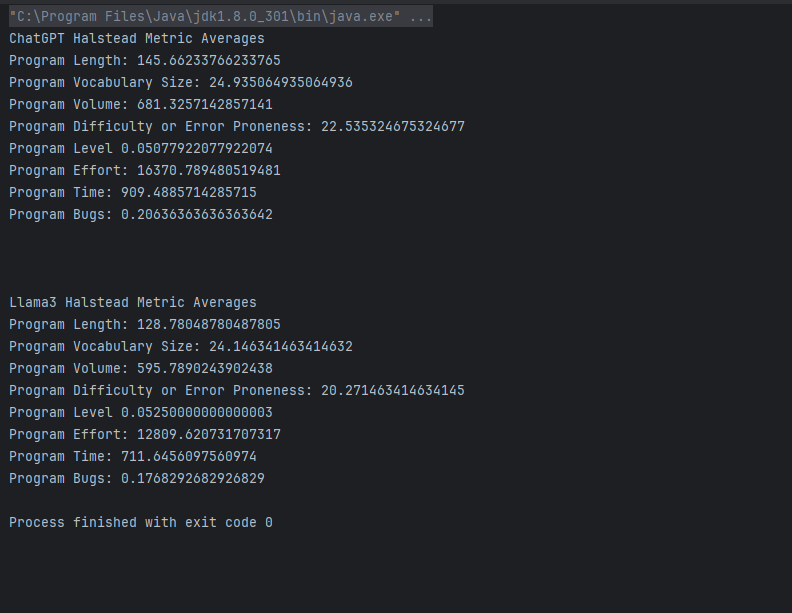
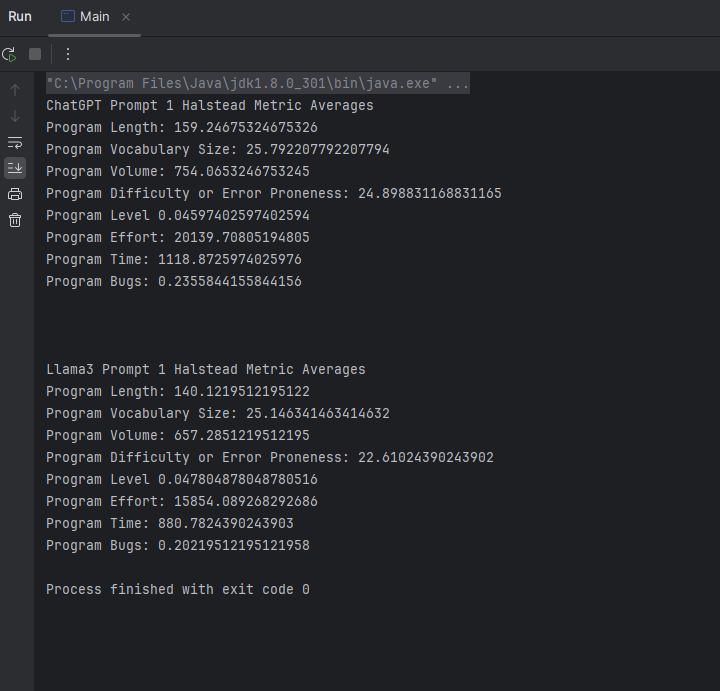
Finished Halstead Metric Averages calculations for Prompt 1 and Prompt 2

Changed region(s): [[0.0, 0.0, 0.7028, 0.4339], [0.0, 0.4649, 0.7028, 0.8059], [0.0, 0.8369, 0.4278, 0.8679]]

diff --git a/HalsteadMetricsAverage/src/Main.java b/HalsteadMetricsAverage/src/Main.java
@@ -3,48 +3,94 @@
 public class Main {
     public static void main(String[] args)
     {
-        double [] ChatGPTprogramLength = {101.00, 96.00, 190.00, 201.00, 112.00, 62.00, 59.00, 64.00, 70.00, 67.00, 68.00, 67.00, 163.00, 162.00, 128.00, 162.00, 160.00, 184.00, 163.00, 165.00, 127.00, 132.00, 173.00, 145.00, 182.00, 160.00, 158.00, 141.00, 167.00, 183.00, 148.00, 118.00, 137.00, 140.00, 170.00, 170.00, 216.00, 260.00, 190.00, 180.00, 137.00, 160.00, 217.00, 233.00, 183.00, 254.00, 224.00, 234.00, 202.00, 197.00, 154.00, 132.00, 103.00, 102.00, 122.00, 182.00, 180.00, 191.00, 126.00, 220.00, 156.00, 172.00, 187.00, 128.00, 171.00, 145.00,  81.00, 82.00, 80.00, 89.00, 88.00, 89.00, 81.00, 84.00, 112.00, 91.00, 86.00};
-        double [] ChatGPTprogramVocabularySize = {18.00, 16.00, 21.00, 18.00, 14.00, 18.00, 18.00, 18.00, 17.00, 18.00, 21.00, 23.00, 31.00, 27.00, 29.00, 27.00, 27.00, 27.00, 25.00, 29.00, 27.00, 32.00, 25.00, 26.00, 28.00, 27.00, 27.00, 28.00, 28.00, 39.00, 27.00, 27.00, 25.00, 30.00, 31.00, 31.00, 33.00, 40.00, 30.00,  26.00, 30.00, 29.00, 24.00, 32.00, 24.00, 29.00, 27.00, 28.00, 23.00, 27.00, 25.00, 20.00, 23.00, 21.00, 26.00, 23.00, 34.00, 32.00, 23.00, 31.00, 25.00, 25.00, 22.00, 19.00, 25.00, 18.00, 18.00, 20.00, 21.00, 21.00, 21.00, 19.00, 21.00, 24.00, 22.00, 21.00, 18.00};
-        double [] ChatGPTprogramVolume = {421.16, 384.00, 834.54, 838.15, 426.42, 258.54, 246.03, 266.88, 286.12, 279.38, 298.68, 303.08, 807.53, 770.29, 621.82, 770.29, 760.78, 874.90, 756.95, 801.57, 603.87, 660.00, 803.39, 681.56, 874.94, 760.78, 751.27, 677.84, 802.83, 967.23, 703.72, 561.08, 636.21, 686.96, 842.21, 672.24, 846.08, 932.31, 1383.70, 1089.59, 842.21, 777.28, 994.94, 1165.00, 839.05, 1233.93, 1065.09, 1124.92, 913.76, 936.71, 715.15, 570.49, 465.93, 448.02, 573.45, 823.29, 915.74, 955.00, 569.97, 1089.92, 724.44, 798.74, 833.91, 543.73, 794.10, 604.64, 337.76, 354.40, 351.39, 390.92, 386.52, 378.07, 355.78, 385.14, 499.46, 399.70, 358.61};
-        double [] ChatGPTprogramDifficultyOrErrorProneness = {28.40, 27.61, 42.38, 35.64, 23.63, 9.20, 8.40, 7.64, 13.33, 13.20, 9.00, 10.67, 17.57, 21.26, 19.74, 21.26, 20.63, 23.16, 24.00, 26.05, 16.00, 12.67, 21.00, 20.00, 22.80, 21.47, 19.16, 24.17, 19.80, 16.50, 18.95, 11.72, 26.00, 21.00, 24.52, 24.29, 24.00, 22.00,  21.45, 24.89, 18.00,  19.05, 34.25, 28.00, 32.00, 35.81, 31.79, 33.00, 36.27, 27.58, 23.76, 28.67, 14.67, 16.31, 14.00, 32.53, 19.38, 23.00, 20.53, 28.00, 23.76, 26.35, 35.14, 28.36, 27.53, 36.00, 28.29, 21.39, 19.80, 21.45, 20.90, 21.11, 19.25, 16.50, 19.38, 21.45, 16.80};
-        double [] ChatGPTprogramLevel = {0.04, 0.04, 0.02, 0.03, 0.04, 0.11, 0.12, 0.13, 0.07, 0.08, 0.11, 0.09, 0.06, 0.05, 0.05, 0.05, 0.05, 0.04, 0.04, 0.04, 0.06, 0.08, 0.05, 0.05, 0.04, 0.05, 0.05, 0.04, 0.05, 0.06, 0.05, 0.09, 0.04, 0.05, 0.04, 0.04, 0.04, 0.05, 0.05, 0.04, 0.06, 0.05, 0.03, 0.04, 0.03, 0.03, 0.03, 0.03, 0.03, 0.04, 0.04, 0.03, 0.07, 0.06, 0.07, 0.03, 0.05, 0.04, 0.05, 0.04, 0.04, 0.04, 0.03, 0.04, 0.04, 0.03, 0.04, 0.05, 0.05, 0.05, 0.05, 0.05, 0.05, 0.06, 0.05, 0.05, 0.06};
-        double [] ChatGPTprogramEffort = {11961.01, 10602.67, 35363.65, 29868.79, 10074.26, 2378.53, 2066.61, 2037.96, 3814.97, 3687.88, 2688.10, 3232.84, 14184.51, 16378.84, 12272.79, 16378.84, 15696.13, 20260.83, 18166.77, 20882.93, 9661.93, 8360.00, 16871.13, 13631.28, 19948.60,  16336.79, 14426.26, 16541.42, 7306.11, 33858.80, 12100.39, 21057.97, 20002.27, 30441.43, 26150.14, 20453.75, 20654.28, 6578.62, 13333.71, 15959.27, 15896.00, 16381.06, 14392.79, 14805.28, 34076.59, 32620.00, 26849.54, 44186.34, 37122.39, 33139.01, 25833.55, 16995.42, 16354.18, 6833.59, 8028.35, 26784.31, 17751.33, 21965.00, 11703.36, 30517.85, 17216.14, 21049.23, 29306.11, 15422.29, 21861.09, 21767.01, 9553.89, 7580.18, 6957.43, 8385.15, 8078.35, 7981.38, 6848.72, 6354.76, 9681.77, 8573.58, 6024.71};
-        double [] ChatGPTprogramTime = {664.50, 589.04, 1964.65, 1659.38, 559.68, 132.14, 114.81, 113.22, 211.94, 204.88, 149.34, 179.60, 788.03, 909.94, 681.82, 909.94, 872.01, 1125.60, 1009.26, 1160.16, 536.77, 464.44, 937.28, 757.29, 1108.26, 907.60, 799.60, 910.06, 883.11, 886.63, 740.76, 365.48, 801.46, 918.97, 672.24, 1111.24, 1691.19, 1452.79, 1136.32, 1147.46, 1169.89, 822.52, 1893.14, 1812.22, 1491.64, 2454.80, 1881.04, 2062.36, 1841.06, 1435.20, 944.19, 908.57, 379.64, 405.90, 446.02, 1488.02, 986.19, 1220.28, 650.19, 1695.44, 956.45, 1169.40, 1628.12, 856.79, 1214.50, 1209.28, 530.77, 421.12, 386.52, 465.84, 448.80, 443.41, 380.48, 353.04, 537.88, 476.31, 334.71};
-        double [] ChatGPTprogramBugs = {0.17, 0.16, 0.36, 0.32, 0.16, 0.06, 0.05, 0.05, 0.08, 0.08, 0.06, 0.07, 0.20, 0.21, 0.18, 0.21, 0.21, 0.25, 0.23, 0.25, 0.15, 0.14, 0.22, 0.19, 0.25, 0.21, 0.20, 0.22, 0.21, 0.21, 0.19, 0.12, 0.22, 0.20, 0.25, 0.25, 0.29, 0.32, 0.25, 0.25, 0.18, 0.20, 0.35, 0.34, 0.30, 0.42, 0.35, 0.37, 0.34, 0.29, 0.22, 0.21, 0.12, 0.13,  0.13,  0.30, 0.23, 0.26, 0.17, 0.33, 0.22, 0.25, 0.32, 0.21, 0.26, 0.26, 0.15, 0.13, 0.12, 0.14, 0.13, 0.13, 0.12, 0.11, 0.15, 0.14, 0.11};
+        double [] ChatGPT1programLength = {101.00, 96.00, 191.00, 201.00, 112.00, 62.00, 59.00, 64.00, 75.00, 67.00, 68.00, 67.00, 185.00, 184.00, 141.00, 184.00, 175.00, 209.00, 183.00, 184.00, 143.00, 145.00, 190.00, 164.00, 204.00, 182.00, 174.00, 160.00, 197.00, 199.00, 167.00, 136.00, 156.00, 165.00, 195.00, 195.00, 242.00, 297.00,  216.00, 205.00, 159.00, 182.00, 250.00, 250.00, 201.00, 270.00, 242.00, 252.00, 218.00, 213.00, 168.00, 144.00, 115.00, 112.00, 136.00, 198.00, 196.00, 207.00, 140.00, 238.00, 172.00, 190.00, 207.00, 142.00, 187.00, 160.00, 82.00, 83.00, 81.00, 90.00, 89.00, 90.00, 82.00, 85.00, 113.00, 92.00, 86.00   };
+        double [] ChatGPT1programVocabularySize = {18.00, 16.00, 22.00, 18.00, 14.00, 18.00, 18.00, 18.00, 18.00, 18.00, 21.00, 23.00, 32.00, 28.00, 30.00, 28.00, 28.00, 28.00, 26.00, 30.00, 28.00, 33.00, 26.00, 27.00, 29.00, 28.00, 28.00, 29.00, 29.00, 40.00, 28.00, 28.00, 26.00, 31.00, 32.00, 32.00, 34.00, 41.00, 31.00, 27.00, 31.00, 30.00,  25.00, 33.00, 25.00, 30.00, 28.00, 29.00, 24.00, 28.00, 26.00, 21.00, 24.00, 22.00, 27.00, 24.00, 35.00, 33.00, 24.00, 32.00, 26.00, 26.00, 23.00, 20.00, 26.00, 19.00, 19.00, 21.00, 22.00, 22.00, 22.00, 20.00, 22.00, 25.00, 23.00, 22.00, 18.00  };
+        double [] ChatGPT1programVolume = {421.16, 384.00, 851.75, 838.15, 426.42, 258.54, 246.03, 266.88, 312.74, 279.38, 298.68, 303.08, 925.00, 884.55, 691.87, 884.55, 841.29, 1004.74, 860.18, 902.87, 687.45, 731.44, 893.08, 779.80, 991.03, 874.94, 836.48, 777.28, 957.02, 1059.06, 802.83, 653.80, 733.27, 817.44, 975.00, 975.00, 1231.17, 1591.19, 1070.11, 974.75, 787.72, 893.05, 1160.96, 1261.10, 933.42, 1324.86, 1163.38, 1224.21, 999.52, 1023.97, 789.67, 632.49, 527.27, 499.46, 646.66, 907.82, 1005.34, 1044.19, 641.89, 1190.00, 808.48, 893.08, 936.38, 613.71, 878.98, 679.67, 348.33, 364.56, 361.21, 401.35, 396.89, 388.97, 365.67, 394.73, 511.16, 410.27, 358.61   };
+        double [] ChatGPT1programDifficultyOrErrorProneness = {28.40, 27.61, 47.08, 35.64, 23.63, 9.20, 8.40, 7.64, 15.00, 13.20, 9.00, 10.67, 19.76, 23.92, 21.71, 23.92, 23.21, 26.05, 27.00, 28.66, 18.00, 14.25, 24.00, 22.50, 25.65, 24.16, 21.55, 26.58, 22.28, 18.33, 21.32, 13.40, 28.60, 23.10, 26.98, 26.71, 27.00, 24.75, 24.14,  28.00, 20.00,  21.43, 38.53, 31.50, 36.00, 40.29, 35.76, 37.13, 40.80, 31.03, 26.74, 32.25, 16.50, 18.35, 15.75, 36.60, 21.81, 25.88, 23.10, 31.50, 26.74, 29.65, 39.54, 31.91, 30.97, 40.50, 30.86, 23.33, 21.60, 23.40, 22.80, 23.22, 21.00, 18.00, 21.54, 23.40, 16.80  };
+        double [] ChatGPT1programLevel = { 0.04, 0.04, 0.02, 0.03, 0.04, 0.11, 0.12, 0.13, 0.07, 0.08, 0.11, 0.09, 0.05, 0.04, 0.05, 0.04, 0.04, 0.04, 0.04, 0.03, 0.06, 0.07, 0.04, 0.04, 0.04, 0.04, 0.05, 0.04, 0.04, 0.05, 0.05, 0.07, 0.03, 0.04, 0.04, 0.04, 0.04, 0.04, 0.04, 0.04, 0.05, 0.05, 0.03, 0.03, 0.03, 0.02, 0.03, 0.03, 0.02, 0.03, 0.04, 0.03, 0.06,  0.05, 0.06, 0.03, 0.05, 0.04, 0.04, 0.03, 0.04, 0.03, 0.03, 0.03, 0.03, 0.02, 0.03, 0.04, 0.05, 0.04, 0.04, 0.04, 0.05, 0.06, 0.05, 0.04, 0.06  };
+        double [] ChatGPT1programEffort = {11961.01, 10602.67, 40103.30, 29868.79, 10074.26, 2378.53, 2066.61, 2037.96, 4691.17, 3687.88, 2688.10, 3232.84, 18278.80, 21159.45, 15020.90, 21159.45, 19526.72, 26176.05, 23224.87, 25874.29, 12374.13, 10422.98, 21434.01, 17545.53, 25419.87, 21136.67, 18028.34, 20662.61, 21317.67, 19416.17, 17112.92, 8760.92, 20971.48, 18882.92, 26301.79, 26046.43, 33241.48, 39382.03, 25828.48, 27293.05, 15754.34, 19136.87, 44733.40, 39724.60, 33602.94, 53372.95, 41606.14, 45448.84, 40780.49, 31769.91, 21112.16, 20397.92, 8699.97, 9163.10, 10184.97, 33226.31, 21924.13, 27018.41,  14827.77, 37485.00, 21614.83, 26477.30, 37020.35, 19583.05, 27222.60, 27526.57, 10748.47, 8506.45, 7802.22, 9391.56, 9049.08, 9032.83, 7679.14, 7105.10, 11009.65, 9600.26, 6024.71  };
+        double [] ChatGPT1programTime = { 664.50, 589.04, 2227.96, 1659.38, 559.68, 132.14, 114.81, 113.22, 260.62, 204.88, 149.34, 179.60, 1015.49, 1175.52, 834.49, 1175.52, 1084.82, 1454.22, 1290.27, 1437.46, 687.45, 579.05, 1190.78, 974.75, 1412.22, 1174.26, 1001.57, 1147.92, 1184.32, 1078.68, 950.72, 486.72, 1165.08, 1049.05, 1461.21, 1447.02, 1846.75, 2187.89, 1434.92, 1516.28, 875.24, 1063.16, 2485.19, 2206.92, 1866.83, 2965.16, 2311.45, 2524.94, 2265.58, 1765.00, 1172.90, 1133.22, 483.33, 509.06, 565.83, 1845.91, 1218.01, 1501.02, 823.76, 2082.50, 1200.82, 1470.96, 2056.69, 1087.95, 1512.37, 1529.25, 597.14, 472.58, 433.46, 521.75, 502.73, 501.82, 426.62, 394.73, 611.65, 533.35, 334.71  };
+        double [] ChatGPT1programBugs = {0.17, 0.16, 0.39, 0.32, 0.16, 0.06, 0.05, 0.05, 0.09, 0.08, 0.06, 0.07, 0.23, 0.26, 0.20, 0.26, 0.24, 0.29, 0.27, 0.29, 0.18, 0.16, 0.26, 0.23, 0.29, 0.25, 0.23, 0.25, 0.26, 0.24, 0.22, 0.14, 0.25, 0.24, 0.29, 0.29, 0.34, 0.39, 0.29, 0.30, 0.21, 0.24, 0.42, 0.39, 0.35, 0.47, 0.40, 0.42, 0.39, 0.33, 0.25, 0.25, 0.15, 0.14, 0.16, 0.34, 0.26, 0.30, 0.20, 0.37, 0.26, 0.30, 0.37, 0.24, 0.30, 0.30, 0.16, 0.14, 0.13, 0.15, 0.14, 0.14, 0.13, 0.12, 0.16, 0.15, 0.11  };
 
-        System.out.println("ChatGPT Halstead Metric Averages");
-        System.out.println("Program Length: " + halsteadAverage(ChatGPTprogramLength));
-        System.out.println("Program Vocabulary Size: " + halsteadAverage(ChatGPTprogramVocabularySize));
-        System.out.println("Program Volume: " + halsteadAverage(ChatGPTprogramVolume));
-        System.out.println("Program Difficulty or Error Proneness: " + halsteadAverage(ChatGPTprogramDifficultyOrErrorProneness));
-        System.out.println("Program Level " + halsteadAverage(ChatGPTprogramLevel));
-        System.out.println("Program Effort: " + halsteadAverage(ChatGPTprogramEffort));
-        System.out.println("Program Time: " + halsteadAverage(ChatGPTprogramTime));
-        System.out.println("Program Bugs: " + halsteadAverage(ChatGPTprogramBugs));
+        System.out.println("ChatGPT Prompt 1 Halstead Metric Averages");
+        System.out.println("Program Length: " + halsteadAverage(ChatGPT1programLength));
+        System.out.println("Program Vocabulary Size: " + halsteadAverage(ChatGPT1programVocabularySize));
+        System.out.println("Program Volume: " + halsteadAverage(ChatGPT1programVolume));
+        System.out.println("Program Difficulty or Error Proneness: " + halsteadAverage(ChatGPT1programDifficultyOrErrorProneness));
+        System.out.println("Program Level " + halsteadAverage(ChatGPT1programLevel));
+        System.out.println("Program Effort: " + halsteadAverage(ChatGPT1programEffort));
+        System.out.println("Program Time: " + halsteadAverage(ChatGPT1programTime));
+        System.out.println("Program Bugs: " + halsteadAverage(ChatGPT1programBugs));
 
         System.out.println();
         System.out.println();
         System.out.println();
 
-        double [] Llama3programLength = {67.00, 116.00, 116.00, 129.00, 131.00, 122.00, 130.00, 114.00, 147.00, 144.00, 116.00, 122.00, 112.00, 138.00, 115.00, 130.00, 140.00, 135.00, 130.00, 193.00, 196.00, 197.00, 197.00, 120.00, 168.00, 181.00, 226.00, 195.00, 185.00, 159.00, 79.00, 78.00, 78.00, 74.00, 79.00, 99.00, 75.00, 76.00, 79.00, 97.00, 95.00};
-        double [] Llama3programVocabularySize = {17.00, 23.00, 24.00, 26.00, 28.00, 26.00, 28.00, 25.00, 26.00, 24.00, 24.00, 28.00, 23.00, 27.00, 25.00, 28.00, 25.00, 30.00, 24.00, 22.00, 21.00, 20.00, 33.00, 26.00, 24.00, 45.00, 32.00, 29.00, 29.00, 26.00, 18.00, 18.00, 18.00, 18.00, 20.00, 18.00, 18.00, 16.00, 21.00, 18.00, 19.00};
-        double [] Llama3programVolume = {273.86, 524.73, 531.86, 606.36, 629.76, 573.45, 624.96, 529.40, 690.96, 660.23, 531.86, 586.50, 506.64, 656.17, 534.04, 624.96, 650.14, 662.43, 596.05, 860.67, 860.89, 851.42, 993.75, 564.05, 770.27, 994.03, 1130.00, 947.31, 898.73,  747.37, 329.42, 325.25, 325.25, 308.57, 341.43, 304.00, 312.74, 412.82, 346.99, 404.48, 403.55};
-        double [] Llama3programDifficultyOrErrorProneness = {12.89, 17.33, 16.25, 16.67, 21.11, 16.00, 20.83, 21.33, 23.56, 20.75, 16.25, 19.72, 19.61, 20.00, 18.28, 17.76, 27.00, 16.29, 15.24, 28.23, 44.25, 33.92, 23.44, 21.56, 31.20, 10.96, 24.50, 23.05, 23.24, 25.68, 16.50, 16.00, 16.00, 14.50, 19.56, 19.00, 15.50, 18.64, 12.38, 19.50, 16.65};
-        double [] Llama3programLevel = {0.08, 0.06, 0.06, 0.06, 0.05, 0.06, 0.05, 0.05, 0.04, 0.05, 0.06, 0.05, 0.05, 0.05, 0.05, 0.06, 0.04, 0.06, 0.07, 0.04, 0.02, 0.03, 0.04, 0.05, 0.03, 0.09, 0.04, 0.04, 0.04, 0.04, 0.06, 0.06, 0.07, 0.05, 0.05, 0.06, 0.05, 0.08, 0.05, 0.06};
-        double [] Llama3programEffort = {3529.75, 9095.38, 8642.65, 10105.95, 13295.01, 9175.26, 13019.92, 11293.86, 16278.31, 13699.87, 8642.65, 11567.03, 9933.74, 13123.49, 9762.98, 11101.19, 17553.78, 10788.15, 9080.92, 24299.59, 38094.57, 28882.78, 23290.91, 12162.39, 24032.54, 10895.04, 27685.00, 21833.15, 20884.69, 19189.82, 5435.50, 5204.07, 5204.07, 4474.33, 6676.90,  7843.63, 4847.54, 5667.43, 4294.04, 7887.41, 6719.16};
-        double [] Llama3programTime = {196.10, 505.30, 480.15, 561.44, 738.61, 509.74, 723.33, 627.44, 904.35, 761.10, 480.15, 642.61, 551.87, 729.08, 542.39, 616.73, 975.21, 599.34, 504.50, 1349.98, 2116.36, 1604.60, 1293.94, 675.69, 1335.14, 605.28, 1538.06, 1212.95, 1160.26, 1066.10, 301.97, 289.11, 289.11, 248.57, 370.94,  435.76, 269.31, 314.86, 238.56, 438.19, 373.29};
-        double [] Llama3programBugs = {0.08, 0.15, 0.14, 0.16, 0.19, 0.15, 0.18, 0.17, 0.21, 0.19, 0.14, 0.17, 0.15, 0.19, 0.15, 0.17, 0.23, 0.16, 0.15, 0.28, 0.38, 0.31, 0.27, 0.18, 0.28, 0.16, 0.31, 0.26, 0.25, 0.24, 0.10, 0.10, 0.11, 0.09, 0.12, 0.13, 0.10, 0.11, 0.09, 0.13, 0.12};
+        double [] Llama31programLength = { 72.00, 126.00, 126.00, 146.00, 149.00, 139.00, 147.00, 124.00, 167.00, 164.00, 126.00, 139.00, 122.00, 158.00, 125.00, 142.00, 152.00, 147.00, 142.00, 209.00, 226.00, 215.00, 213.00, 128.00, 182.00, 197.00, 257.00, 204.00, 208.00, 173.00, 80.00, 79.00, 79.00, 75.00, 80.00, 100.00, 76.00, 77.00, 80.00, 98.00, 96.00  };
+        double [] Llama31programVocabularySize = {18.00, 24.00, 25.00, 27.00, 29.00, 27.00, 29.00, 26.00, 27.00, 25.00, 25.00, 29.00, 24.00, 28.00, 26.00, 29.00, 26.00, 31.00, 25.00, 23.00, 22.00, 21.00, 34.00, 27.00, 25.00, 46.00, 33.00, 30.00, 30.00, 27.00, 19.00, 19.00, 19.00, 19.00, 21.00, 19.00, 19.00, 17.00, 22.00, 19.00, 20.00 };
+        double [] Llama31programVolume = { 300.23, 577.71, 585.13, 694.21, 723.84, 660.93, 714.12, 582.85, 794.07, 761.59, 585.13, 675.26, 559.37, 759.56, 587.55, 689.83, 714.47, 728.27, 659.43, 945.42, 1007.83, 944.35, 1083.63, 608.63, 845.18, 1088.14, 1296.41, 1001.01, 1020.63,  822.60, 339.83, 335.59, 335.59, 318.59, 351.39, 424.79, 322.84, 314.73, 356.75, 416.30, 414.91 };
+        double [] Llama31programDifficultyOrErrorProneness = {14.50, 19.50, 18.28, 18.75, 23.22, 18.00, 22.92, 23.47, 26.18, 23.34, 18.28, 21.69, 21.79, 22.22, 20.31, 19.74, 29.70, 18.10, 17.41, 32.27, 49.17, 38.77, 26.04, 23.72, 34.67, 12.53, 27.56, 25.93, 26.14, 28.53, 18.33, 17.78,  17.78, 16.11, 21.33, 21.11, 17.22, 20.71, 13.75, 21.67, 18.50  };
+        double [] Llama31programLevel = { 0.07, 0.05, 0.05, 0.05, 0.04, 0.06, 0.04, 0.04, 0.04, 0.04, 0.05, 0.05, 0.05, 0.04, 0.05, 0.05, 0.03, 0.06, 0.06, 0.03, 0.02, 0.03, 0.04, 0.04, 0.03, 0.08, 0.04, 0.04, 0.04, 0.04, 0.05, 0.06, 0.06, 0.06, 0.05, 0.05, 0.06, 0.05, 0.07, 0.05, 0.05  };
+        double [] Llama31programEffort = {4353.40, 11265.25, 10696.83, 13016.50, 16809.15, 11896.73, 16365.32, 13677.65, 20785.85, 17778.42, 10696.83, 14649.38, 12186.18, 16879.16, 11934.71, 13615.13, 21219.67, 13178.16, 11481.80, 30505.70, 49551.72, 36611.66, 28219.52, 14435.84, 29299.64, 13630.41, 35732.28, 25954.65, 26682.27, 23468.17, 6230.29, 5965.98, 5965.98, 5132.91, 7496.22, 8967.85, 5560.07, 6519.50, 4905.37, 9019.77, 7675.74 };
+        double [] Llama31programTime = {241.86, 625.85, 594.27, 723.14, 933.84, 660.93, 909.18, 759.87, 1154.77, 987.69, 594.27, 813.85, 677.01, 937.73, 663.04, 756.40, 1178.87, 732.12, 637.88, 1694.76, 2752.87, 2033.98, 1567.75, 801.99, 1627.76, 757.24, 1985.13, 1441.92, 1482.35, 1303.79, 346.13, 331.44, 331.44, 285.16, 416.46, 498.21, 308.89, 362.19, 272.52, 501.10, 426.43 };
+        double [] Llama31programBugs = {0.09, 0.17, 0.16, 0.18, 0.22, 0.17, 0.21, 0.19, 0.25, 0.23, 0.16, 0.20, 0.18, 0.22, 0.17, 0.19, 0.26, 0.19, 0.17, 0.33, 0.45, 0.37, 0.31, 0.20, 0.32, 0.19, 0.36, 0.29, 0.30, 0.27, 0.11, 0.11, 0.11, 0.10,  0.13, 0.14, 0.10, 0.12, 0.10, 0.14, 0.13 };
 
-        System.out.println("Llama3 Halstead Metric Averages");
-        System.out.println("Program Length: " + halsteadAverage(Llama3programLength));
-        System.out.println("Program Vocabulary Size: " + halsteadAverage(Llama3programVocabularySize));
-        System.out.println("Program Volume: " + halsteadAverage(Llama3programVolume));
-        System.out.println("Program Difficulty or Error Proneness: " + halsteadAverage(Llama3programDifficultyOrErrorProneness));
-        System.out.println("Program Level " + halsteadAverage(Llama3programLevel));
-        System.out.println("Program Effort: " + halsteadAverage(Llama3programEffort));
-        System.out.println("Program Time: " + halsteadAverage(Llama3programTime));
-        System.out.println("Program Bugs: " + halsteadAverage(Llama3programBugs));
+        System.out.println("Llama3 Prompt 1 Halstead Metric Averages");
+        System.out.println("Program Length: " + halsteadAverage(Llama31programLength));
+        System.out.println("Program Vocabulary Size: " + halsteadAverage(Llama31programVocabularySize));
+        System.out.println("Program Volume: " + halsteadAverage(Llama31programVolume));
+        System.out.println("Program Difficulty or Error Proneness: " + halsteadAverage(Llama31programDifficultyOrErrorProneness));
+        System.out.println("Program Level " + halsteadAverage(Llama31programLevel));
+        System.out.println("Program Effort: " + halsteadAverage(Llama31programEffort));
+        System.out.println("Program Time: " + halsteadAverage(Llama31programTime));
+        System.out.println("Program Bugs: " + halsteadAverage(Llama31programBugs));
 
+        System.out.println();
+        System.out.println();
+        System.out.println();
+        System.out.println("Halstead Metrics for Prompt 2");
+    //Now this is where we calculate for Prompt 2
+        double [] ChatGPT2programLength = {102.00, 199.00, 199.00, 97.00, 97.00, 155.00, 76.00, 74.00, 77.00, 58.00, 78.00, 92.00, 163.00, 141.00, 180.00, 157.00, 166.00, 167.00, 176.00, 161.00, 117.00, 173.00, 174.00, 163.00, 194.00, 212.00, 158.00, 175.00, 155.00, 195.00, 172.00, 162.00, 222.00, 227.00, 228.00, 252.00, 208.00, 224.00, 257.00, 258.00, 177.00, 229.00, 214.00, 221.00, 204.00, 181.00, 194.00, 233.00, 182.00, 280.00, 209.00, 218.00, 170.00, 136.00, 123.00, 133.00, 222.00, 197.00, 218.00, 228.00, 181.00, 233.00, 187.00, 192.00, 201.00, 203.00, 97.00, 95.00, 96.00, 94.00, 84.00, 91.00, 120.00, 103.00, 93.00, 75.00, 110.00  };
+        double [] ChatGPT2programVocabularySize = {19.00, 20.00, 19.00, 20.00, 18.00, 22.00, 22.00, 24.00, 23.00, 19.00, 24.00, 28.00, 28.00, 29.00, 30.00, 27.00, 28.00, 26.00, 30.00, 28.00, 27.00, 28.00, 29.00, 29.00, 29.00, 29.00, 28.00, 29.00, 26.00, 28.00, 28.00, 27.00, 31.00, 37.00, 36.00, 40.00, 36.00, 34.00, 33.00, 31.00, 28.00, 35.00, 26.00, 29.00, 31.00, 27.00, 26.00, 26.00, 26.00, 46.00, 24.00, 22.00, 26.00, 23.00, 26.00, 26.00, 26.00, 25.00, 29.00, 25.00, 24.00, 23.00, 25.00, 22.00, 24.00, 23.00, 23.00, 24.00, 26.00, 24.00, 23.00, 25.00, 27.00, 25.00, 27.00, 27.00, 29.00    };
+        double [] ChatGPT2programVolume = {  433.29, 860.06, 845.34, 419.23, 404.48, 691.21, 338.92, 339.29, 348.31, 246.38, 357.63, 442.28, 783.60, 684.98, 883.24, 746.52, 798.02, 784.97, 863.61, 773.98, 556.32, 831.67, 845.29, 791.85, 942.45, 1029.89, 759.56, 850.15, 728.57, 937.43, 826.87, 770.29, 1099.83, 1182.55, 1178.74, 1341.13, 1075.34, 1139.59, 1296.41, 1278.18, 850.90, 1174.61, 1005.89, 1073.61, 1010.66, 860.63, 911.89, 1095.20, 855.48, 1546.60, 958.26, 972.16, 799.07, 615.20, 578.15, 625.16, 1043.50, 914.84, 1059.04, 1058.80, 829.88, 1053.99, 868.40, 856.21, 921.58, 918.28, 438.79, 435.57, 451.24, 430.99, 379.98, 422.59, 570.59, 478.32, 442.20, 356.62, 534.38  };
+        double [] ChatGPT2programDifficultyOrErrorProneness = {25.82, 37.00, 40.36, 23.33, 28.00, 25.14, 8.29, 6.75, 7.73, 7.27, 7.25, 7.00, 20.37, 14.63, 18.86, 20.25, 21.08, 23.56, 19.07, 20.37, 15.00, 21.55, 19.57, 18.45, 23.18, 23.40, 23.06, 19.57, 20.38, 22.26, 20.13, 19.25, 25.95, 23.33, 24.04, 25.03,  22.12, 24.38, 28.91, 27.00, 21.55, 21.46, 34.68, 33.07, 28.02, 28.25, 31.76, 39.97, 30.44, 30.88, 34.50, 44.65, 27.26, 19.93, 15.35, 16.68, 35.47, 31.22, 49.16, 40.50, 30.60, 44.04, 30.09, 37.04, 36.30, 37.61, 21.08, 19.04, 16.50, 19.88, 12.54, 20.31, 19.60, 22.62, 17.60, 18.57, 18.35   };
+        double [] ChatGPT2programLevel = { 0.04, 0.03, 0.02, 0.04, 0.04, 0.04, 0.12, 0.15, 0.13, 0.14, 0.14, 0.14, 0.05, 0.07, 0.05, 0.05, 0.05, 0.04, 0.05, 0.05, 0.07, 0.05, 0.05, 0.05, 0.04, 0.04, 0.04, 0.05, 0.05, 0.04, 0.05, 0.05, 0.04, 0.04, 0.04, 0.04, 0.05, 0.04, 0.03, 0.04, 0.05, 0.05, 0.03, 0.03, 0.04, 0.04,  0.03, 0.03,  0.03, 0.03, 0.03, 0.02, 0.04, 0.05, 0.07, 0.06, 0.03, 0.03, 0.02, 0.02, 0.03, 0.02, 0.03, 0.03, 0.03, 0.03, 0.05, 0.05, 0.06, 0.05, 0.08, 0.05, 0.05, 0.04, 0.06, 0.05, 0.05    };
+        double [] ChatGPT2programEffort = {11186.72, 31822.36, 34120.90, 9781.96, 11325.52, 17379.04, 2808.17, 2290.19, 2693.63, 1791.85, 2592.80, 3095.94, 15960.67, 10017.76, 16655.39, 15116.98, 16821.44, 18493.05, 16470.33, 15764.83, 8344.83, 17924.73, 16546.53, 14609.65, 21841.24, 24099.47, 17512.13, 16641.62, 14849.93, 20870.25, 16646.10, 14828.12, 28543.25, 27592.74, 28335.17, 33574.39, 23781.66, 27777.55, 37483.14, 34510.93, 18339.17, 25208.85, 34880.86, 35509.78, 28321.34, 24312.93, 28965.77, 43775.89, 26041.82, 47762.57, 33059.87, 43410.51,  21786.54, 12260.15, 8876.37, 10425.44, 37013.47, 28560.15, 52058.43, 42881.37, 25394.27, 46413.20, 26133.45, 31712.73, 33453.26, 34534.00, 9251.06, 8292.61, 7445.50, 8570.00, 4763.31, 8581.85, 11183.50, 10817.33, 7782.80, 6622.88, 9807.41   };
+        double [] ChatGPT2programTime = {621.48, 1767.91, 1895.61, 543.44, 629.20, 965.50, 156.01, 127.23, 149.65, 99.55, 144.04, 172.00, 886.70, 556.54, 925.30, 839.83, 934.52, 1027.39, 915.02, 875.82, 463.60, 995.82, 919.25, 811.65, 1213.40, 1338.86, 972.90, 924.53, 825.00, 1159.46, 924.78, 823.78, 1585.74, 1532.93, 1574.18, 1865.24, 1321.20, 1543.20, 2082.40, 1917.27, 1018.84, 1400.49, 1937.83, 1972.77, 1573.41, 1350.72, 1609.21, 2431.99, 1446.77, 2653.48, 1836.66, 2411.69, 1210.36, 681.12, 493.13, 579.19, 2056.30, 1586.68, 2892.13, 2382.30, 1410.79, 2578.51, 1451.86, 1761.82, 1858.51, 1918.56, 513.95, 460.70, 413.64, 476.11, 264.63, 476.77, 621.31, 600.96, 432.38, 367.94, 544.86   };
+        double [] ChatGPT2programBugs = {0.17, 0.33, 0.35, 0.15, 0.17, 0.22, 0.07, 0.06, 0.06, 0.05, 0.06, 0.07, 0.21, 0.15, 0.22, 0.20, 0.22, 0.23, 0.22, 0.21, 0.14, 0.23, 0.22, 0.20, 0.26, 0.28, 0.22, 0.22, 0.20, 0.25, 0.22, 0.20, 0.31, 0.30, 0.31, 0.35, 0.28, 0.31, 0.37, 0.35, 0.23, 0.29, 0.36, 0.36, 0.31, 0.28, 0.31, 0.41,  0.29, 0.44, 0.34, 0.41, 0.26, 0.18, 0.14, 0.16, 0.37, 0.31, 0.46, 0.41, 0.29, 0.43, 0.29, 0.33, 0.35, 0.35, 0.15, 0.14, 0.13, 0.14, 0.09, 0.14, 0.17, 0.16, 0.13, 0.12, 0.15   };
+
+        System.out.println("ChatGPT Prompt 2 Halstead Metric Averages");
+        System.out.println("Program Length: " + halsteadAverage(ChatGPT2programLength));
+        System.out.println("Program Vocabulary Size: " + halsteadAverage(ChatGPT2programVocabularySize));
+        System.out.println("Program Volume: " + halsteadAverage(ChatGPT2programVolume));
+        System.out.println("Program Difficulty or Error Proneness: " + halsteadAverage(ChatGPT2programDifficultyOrErrorProneness));
+        System.out.println("Program Level " + halsteadAverage(ChatGPT2programLevel));
+        System.out.println("Program Effort: " + halsteadAverage(ChatGPT2programEffort));
+        System.out.println("Program Time: " + halsteadAverage(ChatGPT2programTime));
+        System.out.println("Program Bugs: " + halsteadAverage(ChatGPT2programBugs));
+
+        System.out.println();
+        System.out.println();
+        System.out.println();
+
+        double [] Llama32programLength = {220.00, 49.00, 122.00, 151.00, 121.00, 144.00, 117.00, 154.00, 125.00, 151.00, 122.00, 178.00, 175.00, 151.00, 150.00, 148.00, 124.00, 121.00, 117.00, 166.00, 166.00, 211.00, 208.00, 223.00, 198.00, 205.00, 173.00, 249.00, 242.00, 202.00, 161.00, 87.00, 85.00, 84.00, 88.00, 87.00, 89.00, 87.00, 89.00  };
+        double [] Llama32programVocabularySize = { 20.00,  18.00, 23.00, 26.00, 25.00, 25.00, 22.00, 27.00, 24.00, 27.00, 25.00, 27.00, 24.00, 27.00, 26.00, 25.00, 25.00, 25.00, 25.00, 27.00, 26.00, 24.00, 23.00, 30.00, 20.00, 28.00, 21.00, 23.00, 28.00, 38.00, 24.00, 24.00, 26.00, 24.00, 26.00, 26.00, 27.00, 26.00, 26.00   };
+        double [] Llama32programVolume = {950.82, 204.33, 551.87, 709.77, 561.91, 668.72, 521.75, 732.25, 573.12, 717.99, 566.55, 846.37, 802.37, 717.99, 705.07, 687.29, 575.84, 561.91, 543.33, 789.31, 780.27, 967.43, 940.90, 1094.24, 855.74, 985.51, 759.87, 1126.37, 1163.38, 1060.08, 738.18, 398.89, 399.54, 385.14, 413.64, 408.94, 423.18, 408.94, 418.34   };
+        double [] Llama32programDifficultyOrErrorProneness = {39.33, 9.20, 16.80, 19.32, 20.67, 19.69, 21.12, 19.25, 19.50, 18.75, 18.28, 22.75, 25.50, 18.50, 19.59, 20.25, 18.28, 18.00, 17.16, 22.00, 21.97, 30.75, 32.27, 24.00, 37.00, 35.91, 30.15, 42.11, 22.50, 29.75, 27.30, 20.50, 16.71, 19.00, 17.57, 17.57, 16.40, 17.14, 18.00   };
+        double [] Llama32programLevel = { 0.03, 0.11, 0.06, 0.05, 0.05, 0.05, 0.05, 0.05, 0.05, 0.05, 0.05, 0.04, 0.04, 0.05, 0.05, 0.05, 0.05, 0.06, 0.06, 0.05, 0.05, 0.03, 0.03, 0.04, 0.03, 0.03, 0.03, 0.02, 0.04, 0.03, 0.04, 0.05, 0.06, 0.05, 0.06, 0.06, 0.06, 0.06, 0.06 };
+        double [] Llama32programEffort = {37399.08, 1879.80, 9271.49, 13715.19, 11612.74, 13165.33, 11017.03, 14095.86, 11175.85, 13462.28, 10357.25, 19254.92, 20460.40, 13282.78, 13811.00, 13917.64, 10527.04, 10114.32, 9321.53, 17364.85, 17143.06, 29748.38, 30359.74, 26261.68, 31662.45, 35391.32, 22913.03, 26176.05, 47428.09, 31537.42, 20152.29, 8177.28, 6677.98, 7317.60, 7268.22, 7185.63, 6940.23, 7010.37, 7530.10   };
+        double [] Llama32programTime = { 2077.73, 104.43, 515.08, 761.96, 645.15, 731.41, 612.06, 783.10, 620.88, 747.90, 575.40, 1069.72, 1136.69, 737.93, 767.28, 773.20, 584.84, 561.91, 517.86, 964.71, 952.39, 1652.69, 1686.65, 1458.98, 1759.02, 1966.18, 1272.95, 2634.89, 1454.22, 1752.08, 1119.57, 454.29, 371.00, 406.53, 403.79, 399.20, 385.57, 389.47, 418.34   };
+        double [] Llama32programBugs = {0.37, 0.05, 0.15, 0.19, 0.17, 0.19, 0.17, 0.19, 0.17, 0.19, 0.16, 0.24, 0.25, 0.19, 0.19, 0.19, 0.16, 0.16, 0.15, 0.22, 0.22, 0.32, 0.32, 0.29, 0.33, 0.36, 0.27, 0.44, 0.29, 0.33, 0.25, 0.14, 0.12, 0.13, 0.13, 0.12, 0.12, 0.12, 0.13 };
+
+        System.out.println("Llama3 Prompt 2 Halstead Metric Averages");
+        System.out.println("Program Length: " + halsteadAverage(Llama32programLength));
+        System.out.println("Program Vocabulary Size: " + halsteadAverage(Llama32programVocabularySize));
+        System.out.println("Program Volume: " + halsteadAverage(Llama32programVolume));
+        System.out.println("Program Difficulty or Error Proneness: " + halsteadAverage(Llama32programDifficultyOrErrorProneness));
+        System.out.println("Program Level " + halsteadAverage(Llama32programLevel));
+        System.out.println("Program Effort: " + halsteadAverage(Llama32programEffort));
+        System.out.println("Program Time: " + halsteadAverage(Llama32programTime));
+        System.out.println("Program Bugs: " + halsteadAverage(Llama32programBugs));
 
 
 
